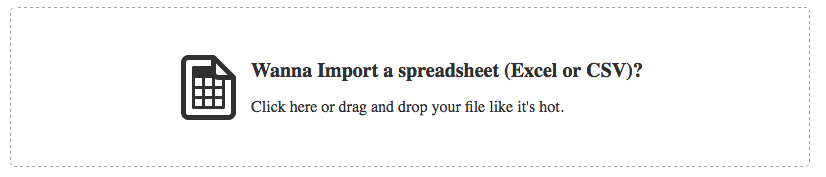
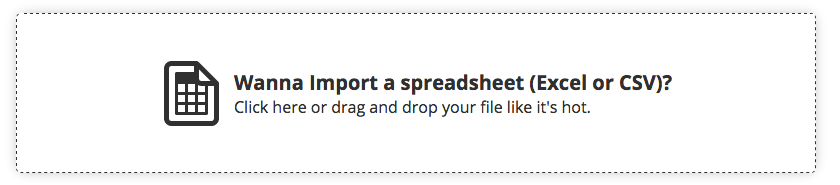
Updated screenshot for importer Fixed styling of importer Updated the example

Changed region(s): [[0.1816, 0.3107, 0.8172, 0.7062], [0.0, 0.904, 0.9685, 0.9605], [0.0303, 0.0282, 0.9685, 0.0847]]

diff --git a/dev/spreadIt.css b/dev/spreadIt.css
@@ -1,1 +1,1 @@
-si-column-manager{position:fixed;top:0;left:0;bottom:0;right:0;visibility:hidden;background-color:rgba(255,255,255,0.95);z-index:2000}si-column-manager ul{list-style:none;margin:0;padding:0}si-column-manager.active{visibility:visible}si-column-manager header{position:absolute;top:0;right:0;left:0;margin:10px auto}si-column-manager footer{position:absolute;bottom:0;right:0;left:0;margin:10px auto}si-column-manager .si-toggle{display:-webkit-box;display:-moz-box;display:box;display:-webkit-flex;display:-moz-flex;display:-ms-flexbox;display:flex;-webkit-box-align:center;-moz-box-align:center;box-align:center;-webkit-align-items:center;-moz-align-items:center;-ms-align-items:center;-o-align-items:center;align-items:center;-ms-flex-align:center;white-space:nowrap}si-column-manager .si-toggle input[type="checkbox"]{-webkit-appearance:none;-moz-appearance:none;-ms-appearance:none;-o-appearance:none;appearance:none;display:none}si-column-manager .si-toggle input[type="checkbox"]:checked+i{background-color:#52a552}si-column-manager .si-toggle input[type="checkbox"]:checked+i:after{right:0;left:auto}si-column-manager .si-toggle i{-webkit-box-flex:0;-moz-box-flex:0;box-flex:0;-webkit-flex:0 0 40px;-moz-flex:0 0 40px;-ms-flex:0 0 40px;flex:0 0 40px;height:25px;position:relative;background-color:#f0f0f0;border-radius:25px;margin-right:8px}si-column-manager .si-toggle i:after{content:'';display:block;background-color:white;border-radius:20px;height:21px;width:21px;margin:2px;position:absolute;left:0;top:0}si-column-manager .si-column-manager-actions{display:-webkit-box;display:-moz-box;display:box;display:-webkit-flex;display:-moz-flex;display:-ms-flexbox;display:flex;-webkit-box-pack:end;-moz-box-pack:end;box-pack:end;-webkit-justify-content:flex-end;-moz-justify-content:flex-end;-ms-justify-content:flex-end;-o-justify-content:flex-end;justify-content:flex-end;-ms-flex-pack:end;-webkit-box-align:center;-moz-box-align:center;box-align:center;-webkit-align-items:center;-moz-align-items:center;-ms-align-items:center;-o-align-items:center;align-items:center;-ms-flex-align:center;width:calc(100% - 40px);max-width:800px}si-column-manager .si-column-manager-actions button{height:40px;padding:0 20px;font-size:inherit;font-family:inherit}si-column-manager .si-column-manager-actions .si-has-header{margin-right:auto}si-column-manager .si-column-manager-actions .si-close{line-height:40px;width:40px;text-align:center;border-radius:4px;font-size:24px;font-weight:bold;cursor:pointer}si-column-manager .si-column-manager-actions .si-close:hover{background-color:rgba(0,0,0,0.05)}si-column-manager .si-column-manager-actions .si-import{background-color:#52a552;color:white;text-shadow:0 1px 1px rgba(0,0,0,0.03);border:1px solid #56944a;border-radius:4px}si-column-manager .si-column-manager-columns{left:0;right:0;top:0;bottom:0;position:absolute;margin:60px auto 60px;width:calc(100% - 40px);max-width:800px;counter-reset:column-counter;border-bottom:1px solid #ccc;border-top:1px solid #ccc;box-shadow:0 0 20px -4px rgba(0,0,0,0.2);overflow-y:auto;background-color:white}si-column-manager .si-column-manager-columns .si-column-manager-column{display:-webkit-box;display:-moz-box;display:box;display:-webkit-flex;display:-moz-flex;display:-ms-flexbox;display:flex;border:1px solid #ccc;border-bottom:none}si-column-manager .si-column-manager-columns .si-column-manager-column.si-column-ignored .si-column-manager-samples{text-decoration:line-through;color:#ccc}si-column-manager .si-column-manager-samples{counter-reset:sample-counter;-webkit-flex-grow:1;-moz-flex-grow:1;flex-grow:1;-ms-flex-positive:1;position:relative}si-column-manager .si-column-manager-samples .si-column-manager-sample-title{font-weight:bold;font-size:20px}si-column-manager .si-column-manager-samples .si-column-manager-sample-title:before{line-height:40px !important}si-column-manager .si-column-manager-samples li:last-of-type{border-bottom:none !important}si-column-manager .si-column-manager-samples .si-column-manager-sample-header{background-color:#e8e8e8;display:-webkit-box;display:-moz-box;display:box;display:-webkit-flex;display:-moz-flex;display:-ms-flexbox;display:flex;-webkit-box-align:center;-moz-box-align:center;box-align:center;-webkit-align-items:center;-moz-align-items:center;-ms-align-items:center;-o-align-items:center;align-items:center;-ms-flex-align:center;border-bottom:1px solid #ccc}si-column-manager .si-column-manager-samples .si-column-manager-sample-header:before{-webkit-box-flex:0;-moz-box-flex:0;box-flex:0;-webkit-flex:0 0 30px;-moz-flex:0 0 30px;-ms-flex:0 0 30px;flex:0 0 30px;background-color:#e8e8e8;display:block;line-height:30px;text-align:center;margin-right:10px;content:'\00a0';border-right:1px solid #ccc}si-column-manager .si-column-manager-samples .si-column-manager-sample-header:after{display:block;content:counter(column-counter,upper-alpha);counter-increment:column-counter;text-align:center;-webkit-flex-grow:1;-moz-flex-grow:1;flex-grow:1;-ms-flex-positive:1}si-column-manager .si-column-manager-samples .si-column-manager-sample{display:-webkit-box;display:-moz-box;display:box;display:-webkit-flex;display:-moz-flex;display:-ms-flexbox;display:flex;-webkit-box-align:center;-moz-box-align:center;box-align:center;-webkit-align-items:center;-moz-align-items:center;-ms-align-items:center;-o-align-items:center;align-items:center;-ms-flex-align:center;border-bottom:1px solid #ccc}si-column-manager .si-column-manager-samples .si-column-manager-sample:before{-webkit-box-flex:0;-moz-box-flex:0;box-flex:0;-webkit-flex:0 0 30px;-moz-flex:0 0 30px;-ms-flex:0 0 30px;flex:0 0 30px;background-color:#e8e8e8;display:block;line-height:30px;text-align:center;content:counter(sample-counter,decimal);counter-increment:sample-counter;margin-right:10px;border-right:1px solid #ccc;font-size:1rem;font-weight:normal}si-column-manager .si-column-manager-editor{-webkit-box-flex:0;-moz-box-flex:0;box-flex:0;-webkit-flex:0 0 300px;-moz-flex:0 0 300px;-ms-flex:0 0 300px;flex:0 0 300px;padding:20px;position:relative}si-column-manager .si-column-manager-editor input{width:100%;font-family:inherit;font-size:inherit;height:40px;padding:12px;box-sizing:border-box}si-column-manager .si-column-manager-editor .select-group{width:100%;box-sizing:border-box;margin-bottom:10px;position:relative;display:-webkit-box;display:-moz-box;display:box;display:-webkit-flex;display:-moz-flex;display:-ms-flexbox;display:flex;-webkit-box-align:center;-moz-box-align:center;box-align:center;-webkit-align-items:center;-moz-align-items:center;-ms-align-items:center;-o-align-items:center;align-items:center;-ms-flex-align:center;padding:0 10px;border:1px solid #ccc;background-color:white;color:black;border-radius:3px;height:40px}si-column-manager .si-column-manager-editor .select-group:after{font-family:Arrows;content:'\e901';margin-left:auto;display:inline-block;-webkit-box-flex:0;-moz-box-flex:0;box-flex:0;-webkit-flex:0 0 auto;-moz-flex:0 0 auto;-ms-flex:0 0 auto;flex:0 0 auto}si-column-manager .si-column-manager-editor .select-group select{-webkit-appearance:none;-moz-appearance:none;-ms-appearance:none;-o-appearance:none;appearance:none;position:absolute;top:0;left:0;width:100%;height:100%;opacity:0}si-column-manager .si-column-manager-editor label{margin-bottom:6px;font-size:20px;font-weight:bold;display:block}si-column-manager .si-column-manager-editor:after{background:linear-gradient(-45deg, #fff 9px, transparent 0),linear-gradient(-135deg, #fff 9px, transparent 0),linear-gradient(-45deg, #ccc 10px, transparent 0),linear-gradient(-135deg, #ccc 10px, transparent 0);background-position:left-bottom;background-repeat:repeat-y;background-size:20px 20px;content:" ";display:block;position:absolute;top:0;left:-20px;width:20px;height:100%;bottom:0}si-importer{display:-webkit-box;display:-moz-box;display:box;display:-webkit-flex;display:-moz-flex;display:-ms-flexbox;display:flex;-webkit-box-pack:center;-moz-box-pack:center;box-pack:center;-webkit-justify-content:center;-moz-justify-content:center;-ms-justify-content:center;-o-justify-content:center;justify-content:center;-ms-flex-pack:center;-webkit-box-align:center;-moz-box-align:center;box-align:center;-webkit-align-items:center;-moz-align-items:center;-ms-align-items:center;-o-align-items:center;align-items:center;-ms-flex-align:center;height:160px;border:1px #a0a0a0 dashed;border-radius:5px;width:calc(100% - 40px);max-width:800px;margin:20px auto 30px;box-sizing:border-box;position:relative;cursor:pointer;background-color:white;-webkit-transition:box-shadow 350ms;-moz-transition:box-shadow 350ms;transition:box-shadow 350ms}si-importer:hover{border-color:#303030;box-shadow:0 0 20px -4px rgba(0,0,0,0.4)}si-importer .si-icon{margin-left:20px;-webkit-box-flex:0;-moz-box-flex:0;box-flex:0;-webkit-flex:0 0 65px;-moz-flex:0 0 65px;-ms-flex:0 0 65px;flex:0 0 65px}si-importer .si-icon path{fill:#303030}si-importer .message{margin-right:20px;margin-left:10px;color:#303030;font-weight:normal;cursor:inherit}si-importer .message h2{font-size:20px;margin-bottom:10px}si-importer input[type="file"]{-webkit-appearance:none;-moz-appearance:none;-ms-appearance:none;-o-appearance:none;appearance:none;opacity:0;position:absolute;top:0;left:0;width:100% !important;height:100% !important;cursor:inherit}@font-face{font-family:'Arrows';src:url("../fonts/arrows/select-arrows.ttf?lym46w") format("truetype"),url("../fonts/arrows/select-arrows.woff?lym46w") format("woff"),url("../fonts/arrows/select-arrows.svg?lym46w#select-arrows") format("svg");font-weight:normal;font-style:normal}
+si-column-manager{position:fixed;top:0;left:0;bottom:0;right:0;visibility:hidden;background-color:rgba(255,255,255,0.95);z-index:2000}si-column-manager ul{list-style:none;margin:0;padding:0}si-column-manager.active{visibility:visible}si-column-manager header{position:absolute;top:0;right:0;left:0;margin:10px auto}si-column-manager footer{position:absolute;bottom:0;right:0;left:0;margin:10px auto}si-column-manager .si-toggle{display:-webkit-box;display:-moz-box;display:box;display:-webkit-flex;display:-moz-flex;display:-ms-flexbox;display:flex;-webkit-box-align:center;-moz-box-align:center;box-align:center;-webkit-align-items:center;-moz-align-items:center;-ms-align-items:center;-o-align-items:center;align-items:center;-ms-flex-align:center;white-space:nowrap}si-column-manager .si-toggle input[type="checkbox"]{-webkit-appearance:none;-moz-appearance:none;-ms-appearance:none;-o-appearance:none;appearance:none;display:none}si-column-manager .si-toggle input[type="checkbox"]:checked+i{background-color:#52a552}si-column-manager .si-toggle input[type="checkbox"]:checked+i:after{right:0;left:auto}si-column-manager .si-toggle i{-webkit-box-flex:0;-moz-box-flex:0;box-flex:0;-webkit-flex:0 0 40px;-moz-flex:0 0 40px;-ms-flex:0 0 40px;flex:0 0 40px;height:25px;position:relative;background-color:#f0f0f0;border-radius:25px;margin-right:8px}si-column-manager .si-toggle i:after{content:'';display:block;background-color:white;border-radius:20px;height:21px;width:21px;margin:2px;position:absolute;left:0;top:0}si-column-manager .si-column-manager-actions{display:-webkit-box;display:-moz-box;display:box;display:-webkit-flex;display:-moz-flex;display:-ms-flexbox;display:flex;-webkit-box-pack:end;-moz-box-pack:end;box-pack:end;-webkit-justify-content:flex-end;-moz-justify-content:flex-end;-ms-justify-content:flex-end;-o-justify-content:flex-end;justify-content:flex-end;-ms-flex-pack:end;-webkit-box-align:center;-moz-box-align:center;box-align:center;-webkit-align-items:center;-moz-align-items:center;-ms-align-items:center;-o-align-items:center;align-items:center;-ms-flex-align:center;width:calc(100% - 40px);max-width:800px}si-column-manager .si-column-manager-actions button{height:40px;padding:0 20px;font-size:inherit;font-family:inherit}si-column-manager .si-column-manager-actions .si-has-header{margin-right:auto}si-column-manager .si-column-manager-actions .si-close{line-height:40px;width:40px;text-align:center;border-radius:4px;font-size:24px;font-weight:bold;cursor:pointer}si-column-manager .si-column-manager-actions .si-close:hover{background-color:rgba(0,0,0,0.05)}si-column-manager .si-column-manager-actions .si-import{background-color:#52a552;color:white;text-shadow:0 1px 1px rgba(0,0,0,0.03);border:1px solid #56944a;border-radius:4px}si-column-manager .si-column-manager-columns{left:0;right:0;top:0;bottom:0;position:absolute;margin:60px auto 60px;width:calc(100% - 40px);max-width:800px;counter-reset:column-counter;border-bottom:1px solid #ccc;border-top:1px solid #ccc;box-shadow:0 0 20px -4px rgba(0,0,0,0.2);overflow-y:auto;background-color:white}si-column-manager .si-column-manager-columns .si-column-manager-column{display:-webkit-box;display:-moz-box;display:box;display:-webkit-flex;display:-moz-flex;display:-ms-flexbox;display:flex;border:1px solid #ccc;border-bottom:none}si-column-manager .si-column-manager-columns .si-column-manager-column.si-column-ignored .si-column-manager-samples{text-decoration:line-through;color:#ccc}si-column-manager .si-column-manager-samples{counter-reset:sample-counter;-webkit-flex-grow:1;-moz-flex-grow:1;flex-grow:1;-ms-flex-positive:1;position:relative}si-column-manager .si-column-manager-samples .si-column-manager-sample-title{font-weight:bold;font-size:20px}si-column-manager .si-column-manager-samples .si-column-manager-sample-title:before{line-height:40px !important}si-column-manager .si-column-manager-samples li:last-of-type{border-bottom:none !important}si-column-manager .si-column-manager-samples .si-column-manager-sample-header{background-color:#e8e8e8;display:-webkit-box;display:-moz-box;display:box;display:-webkit-flex;display:-moz-flex;display:-ms-flexbox;display:flex;-webkit-box-align:center;-moz-box-align:center;box-align:center;-webkit-align-items:center;-moz-align-items:center;-ms-align-items:center;-o-align-items:center;align-items:center;-ms-flex-align:center;border-bottom:1px solid #ccc}si-column-manager .si-column-manager-samples .si-column-manager-sample-header:before{-webkit-box-flex:0;-moz-box-flex:0;box-flex:0;-webkit-flex:0 0 30px;-moz-flex:0 0 30px;-ms-flex:0 0 30px;flex:0 0 30px;background-color:#e8e8e8;display:block;line-height:30px;text-align:center;margin-right:10px;content:'\00a0';border-right:1px solid #ccc}si-column-manager .si-column-manager-samples .si-column-manager-sample-header:after{display:block;content:counter(column-counter,upper-alpha);counter-increment:column-counter;text-align:center;-webkit-flex-grow:1;-moz-flex-grow:1;flex-grow:1;-ms-flex-positive:1}si-column-manager .si-column-manager-samples .si-column-manager-sample{display:-webkit-box;display:-moz-box;display:box;display:-webkit-flex;display:-moz-flex;display:-ms-flexbox;display:flex;-webkit-box-align:center;-moz-box-align:center;box-align:center;-webkit-align-items:center;-moz-align-items:center;-ms-align-items:center;-o-align-items:center;align-items:center;-ms-flex-align:center;border-bottom:1px solid #ccc}si-column-manager .si-column-manager-samples .si-column-manager-sample:before{-webkit-box-flex:0;-moz-box-flex:0;box-flex:0;-webkit-flex:0 0 30px;-moz-flex:0 0 30px;-ms-flex:0 0 30px;flex:0 0 30px;background-color:#e8e8e8;display:block;line-height:30px;text-align:center;content:counter(sample-counter,decimal);counter-increment:sample-counter;margin-right:10px;border-right:1px solid #ccc;font-size:1rem;font-weight:normal}si-column-manager .si-column-manager-editor{-webkit-box-flex:0;-moz-box-flex:0;box-flex:0;-webkit-flex:0 0 300px;-moz-flex:0 0 300px;-ms-flex:0 0 300px;flex:0 0 300px;padding:20px;position:relative}si-column-manager .si-column-manager-editor input{width:100%;font-family:inherit;font-size:inherit;height:40px;padding:12px;box-sizing:border-box}si-column-manager .si-column-manager-editor .select-group{width:100%;box-sizing:border-box;margin-bottom:10px;position:relative;display:-webkit-box;display:-moz-box;display:box;display:-webkit-flex;display:-moz-flex;display:-ms-flexbox;display:flex;-webkit-box-align:center;-moz-box-align:center;box-align:center;-webkit-align-items:center;-moz-align-items:center;-ms-align-items:center;-o-align-items:center;align-items:center;-ms-flex-align:center;padding:0 10px;border:1px solid #ccc;background-color:white;color:black;border-radius:3px;height:40px}si-column-manager .si-column-manager-editor .select-group:after{font-family:Arrows;content:'\e901';margin-left:auto;display:inline-block;-webkit-box-flex:0;-moz-box-flex:0;box-flex:0;-webkit-flex:0 0 auto;-moz-flex:0 0 auto;-ms-flex:0 0 auto;flex:0 0 auto}si-column-manager .si-column-manager-editor .select-group select{-webkit-appearance:none;-moz-appearance:none;-ms-appearance:none;-o-appearance:none;appearance:none;position:absolute;top:0;left:0;width:100%;height:100%;opacity:0}si-column-manager .si-column-manager-editor label{margin-bottom:6px;font-size:20px;font-weight:bold;display:block}si-column-manager .si-column-manager-editor:after{background:linear-gradient(-45deg, #fff 9px, transparent 0),linear-gradient(-135deg, #fff 9px, transparent 0),linear-gradient(-45deg, #ccc 10px, transparent 0),linear-gradient(-135deg, #ccc 10px, transparent 0);background-position:left-bottom;background-repeat:repeat-y;background-size:20px 20px;content:" ";display:block;position:absolute;top:0;left:-20px;width:20px;height:100%;bottom:0}si-importer{display:-webkit-box;display:-moz-box;display:box;display:-webkit-flex;display:-moz-flex;display:-ms-flexbox;display:flex;-webkit-box-pack:center;-moz-box-pack:center;box-pack:center;-webkit-justify-content:center;-moz-justify-content:center;-ms-justify-content:center;-o-justify-content:center;justify-content:center;-ms-flex-pack:center;-webkit-box-align:center;-moz-box-align:center;box-align:center;-webkit-align-items:center;-moz-align-items:center;-ms-align-items:center;-o-align-items:center;align-items:center;-ms-flex-align:center;height:160px;border:1px #a0a0a0 dashed;border-radius:5px;width:calc(100% - 40px);max-width:800px;margin:20px auto 30px;box-sizing:border-box;position:relative;cursor:pointer;background-color:white;-webkit-transition:box-shadow 350ms;-moz-transition:box-shadow 350ms;transition:box-shadow 350ms}si-importer:hover{border-color:#303030;box-shadow:0 0 20px -4px rgba(0,0,0,0.4)}si-importer .si-icon{margin-left:20px;-webkit-box-flex:0;-moz-box-flex:0;box-flex:0;-webkit-flex:0 0 65px;-moz-flex:0 0 65px;-ms-flex:0 0 65px;flex:0 0 65px}si-importer .si-icon path{fill:#303030}si-importer .message{margin-right:20px;margin-left:10px;color:#303030;font-weight:normal;cursor:inherit}si-importer .message h2{font-size:20px;margin:0}si-importer .message p{margin:0}si-importer input[type="file"]{-webkit-appearance:none;-moz-appearance:none;-ms-appearance:none;-o-appearance:none;appearance:none;opacity:0;position:absolute;top:0;left:0;width:100% !important;height:100% !important;cursor:inherit}@font-face{font-family:'Arrows';src:url("../fonts/arrows/select-arrows.ttf?lym46w") format("truetype"),url("../fonts/arrows/select-arrows.woff?lym46w") format("woff"),url("../fonts/arrows/select-arrows.svg?lym46w#select-arrows") format("svg");font-weight:normal;font-style:normal}

diff --git a/dist/spreadIt.css b/dist/spreadIt.css
@@ -1,1 +1,1 @@
-si-column-manager{position:fixed;top:0;left:0;bottom:0;right:0;visibility:hidden;background-color:rgba(255,255,255,0.95);z-index:2000}si-column-manager ul{list-style:none;margin:0;padding:0}si-column-manager.active{visibility:visible}si-column-manager header{position:absolute;top:0;right:0;left:0;margin:10px auto}si-column-manager footer{position:absolute;bottom:0;right:0;left:0;margin:10px auto}si-column-manager .si-toggle{display:-webkit-box;display:-moz-box;display:box;display:-webkit-flex;display:-moz-flex;display:-ms-flexbox;display:flex;-webkit-box-align:center;-moz-box-align:center;box-align:center;-webkit-align-items:center;-moz-align-items:center;-ms-align-items:center;-o-align-items:center;align-items:center;-ms-flex-align:center;white-space:nowrap}si-column-manager .si-toggle input[type="checkbox"]{-webkit-appearance:none;-moz-appearance:none;-ms-appearance:none;-o-appearance:none;appearance:none;display:none}si-column-manager .si-toggle input[type="checkbox"]:checked+i{background-color:#52a552}si-column-manager .si-toggle input[type="checkbox"]:checked+i:after{right:0;left:auto}si-column-manager .si-toggle i{-webkit-box-flex:0;-moz-box-flex:0;box-flex:0;-webkit-flex:0 0 40px;-moz-flex:0 0 40px;-ms-flex:0 0 40px;flex:0 0 40px;height:25px;position:relative;background-color:#f0f0f0;border-radius:25px;margin-right:8px}si-column-manager .si-toggle i:after{content:'';display:block;background-color:white;border-radius:20px;height:21px;width:21px;margin:2px;position:absolute;left:0;top:0}si-column-manager .si-column-manager-actions{display:-webkit-box;display:-moz-box;display:box;display:-webkit-flex;display:-moz-flex;display:-ms-flexbox;display:flex;-webkit-box-pack:end;-moz-box-pack:end;box-pack:end;-webkit-justify-content:flex-end;-moz-justify-content:flex-end;-ms-justify-content:flex-end;-o-justify-content:flex-end;justify-content:flex-end;-ms-flex-pack:end;-webkit-box-align:center;-moz-box-align:center;box-align:center;-webkit-align-items:center;-moz-align-items:center;-ms-align-items:center;-o-align-items:center;align-items:center;-ms-flex-align:center;width:calc(100% - 40px);max-width:800px}si-column-manager .si-column-manager-actions button{height:40px;padding:0 20px;font-size:inherit;font-family:inherit}si-column-manager .si-column-manager-actions .si-has-header{margin-right:auto}si-column-manager .si-column-manager-actions .si-close{line-height:40px;width:40px;text-align:center;border-radius:4px;font-size:24px;font-weight:bold;cursor:pointer}si-column-manager .si-column-manager-actions .si-close:hover{background-color:rgba(0,0,0,0.05)}si-column-manager .si-column-manager-actions .si-import{background-color:#52a552;color:white;text-shadow:0 1px 1px rgba(0,0,0,0.03);border:1px solid #56944a;border-radius:4px}si-column-manager .si-column-manager-columns{left:0;right:0;top:0;bottom:0;position:absolute;margin:60px auto 60px;width:calc(100% - 40px);max-width:800px;counter-reset:column-counter;border-bottom:1px solid #ccc;border-top:1px solid #ccc;box-shadow:0 0 20px -4px rgba(0,0,0,0.2);overflow-y:auto;background-color:white}si-column-manager .si-column-manager-columns .si-column-manager-column{display:-webkit-box;display:-moz-box;display:box;display:-webkit-flex;display:-moz-flex;display:-ms-flexbox;display:flex;border:1px solid #ccc;border-bottom:none}si-column-manager .si-column-manager-columns .si-column-manager-column.si-column-ignored .si-column-manager-samples{text-decoration:line-through;color:#ccc}si-column-manager .si-column-manager-samples{counter-reset:sample-counter;-webkit-flex-grow:1;-moz-flex-grow:1;flex-grow:1;-ms-flex-positive:1;position:relative}si-column-manager .si-column-manager-samples .si-column-manager-sample-title{font-weight:bold;font-size:20px}si-column-manager .si-column-manager-samples .si-column-manager-sample-title:before{line-height:40px !important}si-column-manager .si-column-manager-samples li:last-of-type{border-bottom:none !important}si-column-manager .si-column-manager-samples .si-column-manager-sample-header{background-color:#e8e8e8;display:-webkit-box;display:-moz-box;display:box;display:-webkit-flex;display:-moz-flex;display:-ms-flexbox;display:flex;-webkit-box-align:center;-moz-box-align:center;box-align:center;-webkit-align-items:center;-moz-align-items:center;-ms-align-items:center;-o-align-items:center;align-items:center;-ms-flex-align:center;border-bottom:1px solid #ccc}si-column-manager .si-column-manager-samples .si-column-manager-sample-header:before{-webkit-box-flex:0;-moz-box-flex:0;box-flex:0;-webkit-flex:0 0 30px;-moz-flex:0 0 30px;-ms-flex:0 0 30px;flex:0 0 30px;background-color:#e8e8e8;display:block;line-height:30px;text-align:center;margin-right:10px;content:'\00a0';border-right:1px solid #ccc}si-column-manager .si-column-manager-samples .si-column-manager-sample-header:after{display:block;content:counter(column-counter,upper-alpha);counter-increment:column-counter;text-align:center;-webkit-flex-grow:1;-moz-flex-grow:1;flex-grow:1;-ms-flex-positive:1}si-column-manager .si-column-manager-samples .si-column-manager-sample{display:-webkit-box;display:-moz-box;display:box;display:-webkit-flex;display:-moz-flex;display:-ms-flexbox;display:flex;-webkit-box-align:center;-moz-box-align:center;box-align:center;-webkit-align-items:center;-moz-align-items:center;-ms-align-items:center;-o-align-items:center;align-items:center;-ms-flex-align:center;border-bottom:1px solid #ccc}si-column-manager .si-column-manager-samples .si-column-manager-sample:before{-webkit-box-flex:0;-moz-box-flex:0;box-flex:0;-webkit-flex:0 0 30px;-moz-flex:0 0 30px;-ms-flex:0 0 30px;flex:0 0 30px;background-color:#e8e8e8;display:block;line-height:30px;text-align:center;content:counter(sample-counter,decimal);counter-increment:sample-counter;margin-right:10px;border-right:1px solid #ccc;font-size:1rem;font-weight:normal}si-column-manager .si-column-manager-editor{-webkit-box-flex:0;-moz-box-flex:0;box-flex:0;-webkit-flex:0 0 300px;-moz-flex:0 0 300px;-ms-flex:0 0 300px;flex:0 0 300px;padding:20px;position:relative}si-column-manager .si-column-manager-editor input{width:100%;font-family:inherit;font-size:inherit;height:40px;padding:12px;box-sizing:border-box}si-column-manager .si-column-manager-editor .select-group{width:100%;box-sizing:border-box;margin-bottom:10px;position:relative;display:-webkit-box;display:-moz-box;display:box;display:-webkit-flex;display:-moz-flex;display:-ms-flexbox;display:flex;-webkit-box-align:center;-moz-box-align:center;box-align:center;-webkit-align-items:center;-moz-align-items:center;-ms-align-items:center;-o-align-items:center;align-items:center;-ms-flex-align:center;padding:0 10px;border:1px solid #ccc;background-color:white;color:black;border-radius:3px;height:40px}si-column-manager .si-column-manager-editor .select-group:after{font-family:Arrows;content:'\e901';margin-left:auto;display:inline-block;-webkit-box-flex:0;-moz-box-flex:0;box-flex:0;-webkit-flex:0 0 auto;-moz-flex:0 0 auto;-ms-flex:0 0 auto;flex:0 0 auto}si-column-manager .si-column-manager-editor .select-group select{-webkit-appearance:none;-moz-appearance:none;-ms-appearance:none;-o-appearance:none;appearance:none;position:absolute;top:0;left:0;width:100%;height:100%;opacity:0}si-column-manager .si-column-manager-editor label{margin-bottom:6px;font-size:20px;font-weight:bold;display:block}si-column-manager .si-column-manager-editor:after{background:linear-gradient(-45deg, #fff 9px, transparent 0),linear-gradient(-135deg, #fff 9px, transparent 0),linear-gradient(-45deg, #ccc 10px, transparent 0),linear-gradient(-135deg, #ccc 10px, transparent 0);background-position:left-bottom;background-repeat:repeat-y;background-size:20px 20px;content:" ";display:block;position:absolute;top:0;left:-20px;width:20px;height:100%;bottom:0}si-importer{display:-webkit-box;display:-moz-box;display:box;display:-webkit-flex;display:-moz-flex;display:-ms-flexbox;display:flex;-webkit-box-pack:center;-moz-box-pack:center;box-pack:center;-webkit-justify-content:center;-moz-justify-content:center;-ms-justify-content:center;-o-justify-content:center;justify-content:center;-ms-flex-pack:center;-webkit-box-align:center;-moz-box-align:center;box-align:center;-webkit-align-items:center;-moz-align-items:center;-ms-align-items:center;-o-align-items:center;align-items:center;-ms-flex-align:center;height:160px;border:1px #a0a0a0 dashed;border-radius:5px;width:calc(100% - 40px);max-width:800px;margin:20px auto 30px;box-sizing:border-box;position:relative;cursor:pointer;background-color:white;-webkit-transition:box-shadow 350ms;-moz-transition:box-shadow 350ms;transition:box-shadow 350ms}si-importer:hover{border-color:#303030;box-shadow:0 0 20px -4px rgba(0,0,0,0.4)}si-importer .si-icon{margin-left:20px;-webkit-box-flex:0;-moz-box-flex:0;box-flex:0;-webkit-flex:0 0 65px;-moz-flex:0 0 65px;-ms-flex:0 0 65px;flex:0 0 65px}si-importer .si-icon path{fill:#303030}si-importer .message{margin-right:20px;margin-left:10px;color:#303030;font-weight:normal;cursor:inherit}si-importer .message h2{font-size:20px;margin-bottom:10px}si-importer input[type="file"]{-webkit-appearance:none;-moz-appearance:none;-ms-appearance:none;-o-appearance:none;appearance:none;opacity:0;position:absolute;top:0;left:0;width:100% !important;height:100% !important;cursor:inherit}@font-face{font-family:'Arrows';src:url("../fonts/arrows/select-arrows.ttf?lym46w") format("truetype"),url("../fonts/arrows/select-arrows.woff?lym46w") format("woff"),url("../fonts/arrows/select-arrows.svg?lym46w#select-arrows") format("svg");font-weight:normal;font-style:normal}
+si-column-manager{position:fixed;top:0;left:0;bottom:0;right:0;visibility:hidden;background-color:rgba(255,255,255,0.95);z-index:2000}si-column-manager ul{list-style:none;margin:0;padding:0}si-column-manager.active{visibility:visible}si-column-manager header{position:absolute;top:0;right:0;left:0;margin:10px auto}si-column-manager footer{position:absolute;bottom:0;right:0;left:0;margin:10px auto}si-column-manager .si-toggle{display:-webkit-box;display:-moz-box;display:box;display:-webkit-flex;display:-moz-flex;display:-ms-flexbox;display:flex;-webkit-box-align:center;-moz-box-align:center;box-align:center;-webkit-align-items:center;-moz-align-items:center;-ms-align-items:center;-o-align-items:center;align-items:center;-ms-flex-align:center;white-space:nowrap}si-column-manager .si-toggle input[type="checkbox"]{-webkit-appearance:none;-moz-appearance:none;-ms-appearance:none;-o-appearance:none;appearance:none;display:none}si-column-manager .si-toggle input[type="checkbox"]:checked+i{background-color:#52a552}si-column-manager .si-toggle input[type="checkbox"]:checked+i:after{right:0;left:auto}si-column-manager .si-toggle i{-webkit-box-flex:0;-moz-box-flex:0;box-flex:0;-webkit-flex:0 0 40px;-moz-flex:0 0 40px;-ms-flex:0 0 40px;flex:0 0 40px;height:25px;position:relative;background-color:#f0f0f0;border-radius:25px;margin-right:8px}si-column-manager .si-toggle i:after{content:'';display:block;background-color:white;border-radius:20px;height:21px;width:21px;margin:2px;position:absolute;left:0;top:0}si-column-manager .si-column-manager-actions{display:-webkit-box;display:-moz-box;display:box;display:-webkit-flex;display:-moz-flex;display:-ms-flexbox;display:flex;-webkit-box-pack:end;-moz-box-pack:end;box-pack:end;-webkit-justify-content:flex-end;-moz-justify-content:flex-end;-ms-justify-content:flex-end;-o-justify-content:flex-end;justify-content:flex-end;-ms-flex-pack:end;-webkit-box-align:center;-moz-box-align:center;box-align:center;-webkit-align-items:center;-moz-align-items:center;-ms-align-items:center;-o-align-items:center;align-items:center;-ms-flex-align:center;width:calc(100% - 40px);max-width:800px}si-column-manager .si-column-manager-actions button{height:40px;padding:0 20px;font-size:inherit;font-family:inherit}si-column-manager .si-column-manager-actions .si-has-header{margin-right:auto}si-column-manager .si-column-manager-actions .si-close{line-height:40px;width:40px;text-align:center;border-radius:4px;font-size:24px;font-weight:bold;cursor:pointer}si-column-manager .si-column-manager-actions .si-close:hover{background-color:rgba(0,0,0,0.05)}si-column-manager .si-column-manager-actions .si-import{background-color:#52a552;color:white;text-shadow:0 1px 1px rgba(0,0,0,0.03);border:1px solid #56944a;border-radius:4px}si-column-manager .si-column-manager-columns{left:0;right:0;top:0;bottom:0;position:absolute;margin:60px auto 60px;width:calc(100% - 40px);max-width:800px;counter-reset:column-counter;border-bottom:1px solid #ccc;border-top:1px solid #ccc;box-shadow:0 0 20px -4px rgba(0,0,0,0.2);overflow-y:auto;background-color:white}si-column-manager .si-column-manager-columns .si-column-manager-column{display:-webkit-box;display:-moz-box;display:box;display:-webkit-flex;display:-moz-flex;display:-ms-flexbox;display:flex;border:1px solid #ccc;border-bottom:none}si-column-manager .si-column-manager-columns .si-column-manager-column.si-column-ignored .si-column-manager-samples{text-decoration:line-through;color:#ccc}si-column-manager .si-column-manager-samples{counter-reset:sample-counter;-webkit-flex-grow:1;-moz-flex-grow:1;flex-grow:1;-ms-flex-positive:1;position:relative}si-column-manager .si-column-manager-samples .si-column-manager-sample-title{font-weight:bold;font-size:20px}si-column-manager .si-column-manager-samples .si-column-manager-sample-title:before{line-height:40px !important}si-column-manager .si-column-manager-samples li:last-of-type{border-bottom:none !important}si-column-manager .si-column-manager-samples .si-column-manager-sample-header{background-color:#e8e8e8;display:-webkit-box;display:-moz-box;display:box;display:-webkit-flex;display:-moz-flex;display:-ms-flexbox;display:flex;-webkit-box-align:center;-moz-box-align:center;box-align:center;-webkit-align-items:center;-moz-align-items:center;-ms-align-items:center;-o-align-items:center;align-items:center;-ms-flex-align:center;border-bottom:1px solid #ccc}si-column-manager .si-column-manager-samples .si-column-manager-sample-header:before{-webkit-box-flex:0;-moz-box-flex:0;box-flex:0;-webkit-flex:0 0 30px;-moz-flex:0 0 30px;-ms-flex:0 0 30px;flex:0 0 30px;background-color:#e8e8e8;display:block;line-height:30px;text-align:center;margin-right:10px;content:'\00a0';border-right:1px solid #ccc}si-column-manager .si-column-manager-samples .si-column-manager-sample-header:after{display:block;content:counter(column-counter,upper-alpha);counter-increment:column-counter;text-align:center;-webkit-flex-grow:1;-moz-flex-grow:1;flex-grow:1;-ms-flex-positive:1}si-column-manager .si-column-manager-samples .si-column-manager-sample{display:-webkit-box;display:-moz-box;display:box;display:-webkit-flex;display:-moz-flex;display:-ms-flexbox;display:flex;-webkit-box-align:center;-moz-box-align:center;box-align:center;-webkit-align-items:center;-moz-align-items:center;-ms-align-items:center;-o-align-items:center;align-items:center;-ms-flex-align:center;border-bottom:1px solid #ccc}si-column-manager .si-column-manager-samples .si-column-manager-sample:before{-webkit-box-flex:0;-moz-box-flex:0;box-flex:0;-webkit-flex:0 0 30px;-moz-flex:0 0 30px;-ms-flex:0 0 30px;flex:0 0 30px;background-color:#e8e8e8;display:block;line-height:30px;text-align:center;content:counter(sample-counter,decimal);counter-increment:sample-counter;margin-right:10px;border-right:1px solid #ccc;font-size:1rem;font-weight:normal}si-column-manager .si-column-manager-editor{-webkit-box-flex:0;-moz-box-flex:0;box-flex:0;-webkit-flex:0 0 300px;-moz-flex:0 0 300px;-ms-flex:0 0 300px;flex:0 0 300px;padding:20px;position:relative}si-column-manager .si-column-manager-editor input{width:100%;font-family:inherit;font-size:inherit;height:40px;padding:12px;box-sizing:border-box}si-column-manager .si-column-manager-editor .select-group{width:100%;box-sizing:border-box;margin-bottom:10px;position:relative;display:-webkit-box;display:-moz-box;display:box;display:-webkit-flex;display:-moz-flex;display:-ms-flexbox;display:flex;-webkit-box-align:center;-moz-box-align:center;box-align:center;-webkit-align-items:center;-moz-align-items:center;-ms-align-items:center;-o-align-items:center;align-items:center;-ms-flex-align:center;padding:0 10px;border:1px solid #ccc;background-color:white;color:black;border-radius:3px;height:40px}si-column-manager .si-column-manager-editor .select-group:after{font-family:Arrows;content:'\e901';margin-left:auto;display:inline-block;-webkit-box-flex:0;-moz-box-flex:0;box-flex:0;-webkit-flex:0 0 auto;-moz-flex:0 0 auto;-ms-flex:0 0 auto;flex:0 0 auto}si-column-manager .si-column-manager-editor .select-group select{-webkit-appearance:none;-moz-appearance:none;-ms-appearance:none;-o-appearance:none;appearance:none;position:absolute;top:0;left:0;width:100%;height:100%;opacity:0}si-column-manager .si-column-manager-editor label{margin-bottom:6px;font-size:20px;font-weight:bold;display:block}si-column-manager .si-column-manager-editor:after{background:linear-gradient(-45deg, #fff 9px, transparent 0),linear-gradient(-135deg, #fff 9px, transparent 0),linear-gradient(-45deg, #ccc 10px, transparent 0),linear-gradient(-135deg, #ccc 10px, transparent 0);background-position:left-bottom;background-repeat:repeat-y;background-size:20px 20px;content:" ";display:block;position:absolute;top:0;left:-20px;width:20px;height:100%;bottom:0}si-importer{display:-webkit-box;display:-moz-box;display:box;display:-webkit-flex;display:-moz-flex;display:-ms-flexbox;display:flex;-webkit-box-pack:center;-moz-box-pack:center;box-pack:center;-webkit-justify-content:center;-moz-justify-content:center;-ms-justify-content:center;-o-justify-content:center;justify-content:center;-ms-flex-pack:center;-webkit-box-align:center;-moz-box-align:center;box-align:center;-webkit-align-items:center;-moz-align-items:center;-ms-align-items:center;-o-align-items:center;align-items:center;-ms-flex-align:center;height:160px;border:1px #a0a0a0 dashed;border-radius:5px;width:calc(100% - 40px);max-width:800px;margin:20px auto 30px;box-sizing:border-box;position:relative;cursor:pointer;background-color:white;-webkit-transition:box-shadow 350ms;-moz-transition:box-shadow 350ms;transition:box-shadow 350ms}si-importer:hover{border-color:#303030;box-shadow:0 0 20px -4px rgba(0,0,0,0.4)}si-importer .si-icon{margin-left:20px;-webkit-box-flex:0;-moz-box-flex:0;box-flex:0;-webkit-flex:0 0 65px;-moz-flex:0 0 65px;-ms-flex:0 0 65px;flex:0 0 65px}si-importer .si-icon path{fill:#303030}si-importer .message{margin-right:20px;margin-left:10px;color:#303030;font-weight:normal;cursor:inherit}si-importer .message h2{font-size:20px;margin:0}si-importer .message p{margin:0}si-importer input[type="file"]{-webkit-appearance:none;-moz-appearance:none;-ms-appearance:none;-o-appearance:none;appearance:none;opacity:0;position:absolute;top:0;left:0;width:100% !important;height:100% !important;cursor:inherit}@font-face{font-family:'Arrows';src:url("../fonts/arrows/select-arrows.ttf?lym46w") format("truetype"),url("../fonts/arrows/select-arrows.woff?lym46w") format("woff"),url("../fonts/arrows/select-arrows.svg?lym46w#select-arrows") format("svg");font-weight:normal;font-style:normal}

diff --git a/example/index.html b/example/index.html
@@ -4,12 +4,14 @@
     <meta charset="UTF-8">
     <title>Spreadit Demo</title>
     <link href="../dev/spreadIt.css" type="text/css" rel="stylesheet">
+    <link href='https://fonts.googleapis.com/css?family=Open+Sans:400,800,700' rel='stylesheet' type='text/css'>
     <style>
         html, body {
             height: 100%;
         }
         body {
             margin: 0;
+            font-family: 'Open Sans', sans-serif;
         }
         #examples {
             position: absolute;
@@ -33,7 +35,7 @@
             margin: 0 auto;
             height: calc(100% - 200px);
         }
-        footer {
+        body > footer {
             position: absolute;
             bottom: 0;
             width: 100%;

diff --git a/src/sass/_importer.scss b/src/sass/_importer.scss
@@ -38,7 +38,11 @@ si-importer {
 
         h2 {
             font-size: 20px;
-            margin-bottom: 10px;
+            margin: 0;
+        }
+
+        p {
+            margin: 0;
         }
     }
 
